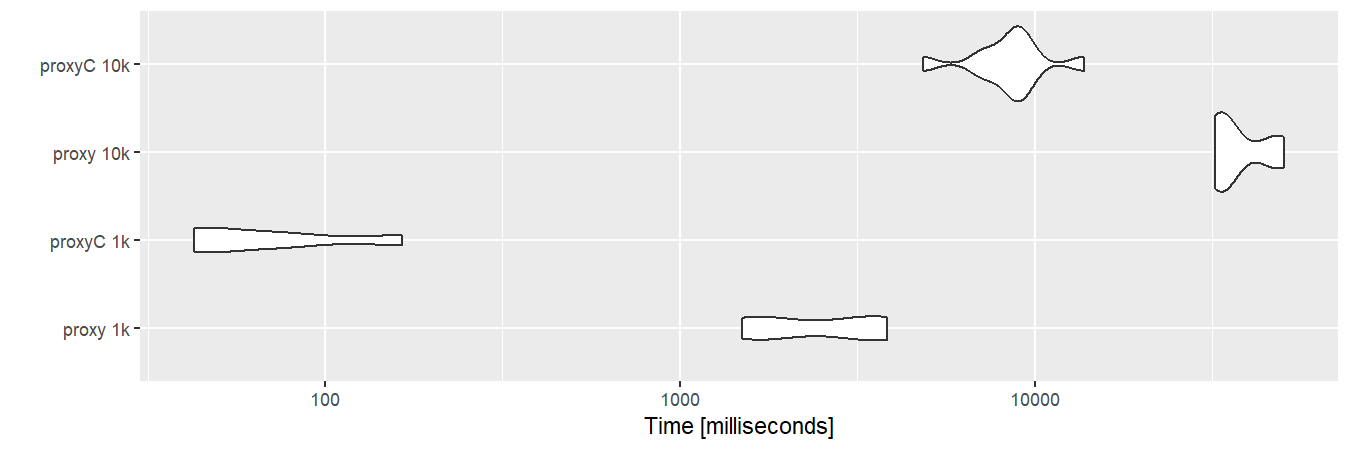
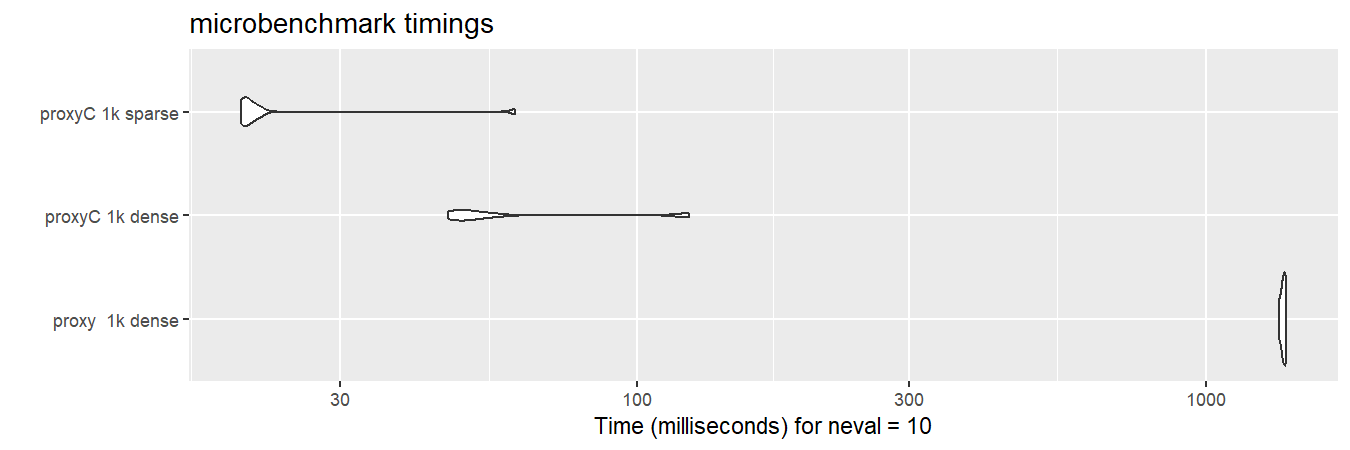
Update README

diff --git a/README.md b/README.md
@@ -9,7 +9,7 @@ Version](https://www.r-pkg.org/badges/version/proxyC)](https://CRAN.R-project.or
 [![Total
 Downloads](https://cranlogs.r-pkg.org/badges/grand-total/proxyC?color=orange)](https://CRAN.R-project.org/package=proxyC)
 [![R build
-status](https://github.com/koheiw/proxyC/workflows/R-CMD-check/badge.svg)](https://github.com/koheiw/proxyC/actions)
+status](https://github.com/proxyC/proxyC/actions/workflows/check-standard.yaml/badge.svg)](https://github.com/proxyC/proxyC/actions/workflows/check-standard.yaml)
 [![codecov](https://codecov.io/gh/koheiw/proxyC/branch/master/graph/badge.svg)](https://app.codecov.io/gh/koheiw/proxyC)
 <!-- badges: end -->
 
@@ -17,7 +17,10 @@ status](https://github.com/koheiw/proxyC/workflows/R-CMD-check/badge.svg)](https
 efficiently in C++. It is optimized for large sparse matrices using the
 Armadillo and Intel TBB libraries. Among several built-in
 similarity/distance measures, computation of correlation, cosine
-similarity and Euclidean distance is particularly fast.
+similarity and Euclidean distance is particularly fast. The functions
+also support both dense (`base::matrix`) and sparse
+(`Matrix::sparseMatrix()`) matrix formats, minimizing the execution time
+and memory usage.
 
 This code was originally written for
 [**quanteda**](https://github.com/quanteda/quanteda) to compute
@@ -74,17 +77,28 @@ With sparse matrices, **proxyC** is roughly 10 to 100 times faster than
 **proxy**.
 
 ``` r
+bm0 <- microbenchmark(
+    "proxy  1k dense" = proxy::simil(dm1k, margin = 2, method = "cosine"),
+    "proxyC 1k dense" = proxyC::simil(dm1k, margin = 2, method = "cosine"),
+    "proxyC 1k sparse" = proxyC::simil(sm1k, margin = 2, method = "cosine"),
+    times = 10
+)
+autoplot(bm0)
+```
+
+![](man/figures/unnamed-chunk-5-1.png)<!-- -->
+
+``` r
 bm1 <- microbenchmark(
-    "proxy 1k" = proxy::simil(dm1k, method = "cosine"),
-    "proxyC 1k" = proxyC::simil(sm1k, margin = 2, method = "cosine"),
-    "proxy 10k" = proxy::simil(dm10k, method = "cosine"),
-    "proxyC 10k" = proxyC::simil(sm10k, margin = 2, method = "cosine"),
+    "proxy  10k dense" = proxy::simil(dm10k, margin = 2, method = "cosine"),
+    "proxyC 10k dense" = proxyC::simil(dm10k, margin = 2, method = "cosine"),
+    "proxyC 10k sparse" = proxyC::simil(sm10k, margin = 2, method = "cosine"),
     times = 10
 )
 autoplot(bm1)
 ```
 
-![](man/figures/unnamed-chunk-5-1.png)<!-- -->
+![](man/figures/unnamed-chunk-6-1.png)<!-- -->
 
 ## Cosine similarity greater than 0.9
 
@@ -100,7 +114,7 @@ bm2 <- microbenchmark(
 autoplot(bm2)
 ```
 
-![](man/figures/unnamed-chunk-6-1.png)<!-- -->
+![](man/figures/unnamed-chunk-7-1.png)<!-- -->
 
 Flooring by `min_simil` makes the resulting object much smaller.
 
@@ -108,7 +122,7 @@ Flooring by `min_simil` makes the resulting object much smaller.
 proxyC::simil(sm10k, margin = 2, method = "cosine") %>% 
   object.size() %>% 
   print(units = "MB")
-## 763 Mb
+## 762.7 Mb
 proxyC::simil(sm10k, margin = 2, method = "cosine", min_simil = 0.9) %>% 
   object.size() %>% 
   print(units = "MB")
@@ -128,4 +142,4 @@ bm3 <- microbenchmark(
 autoplot(bm3)
 ```
 
-![](man/figures/unnamed-chunk-8-1.png)<!-- -->
+![](man/figures/unnamed-chunk-9-1.png)<!-- -->
